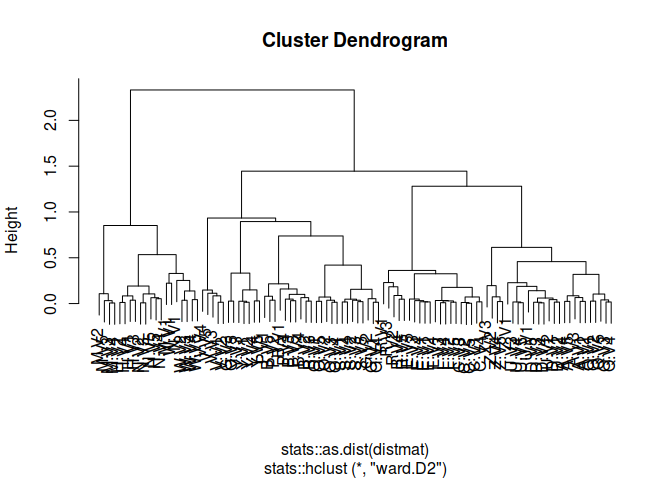
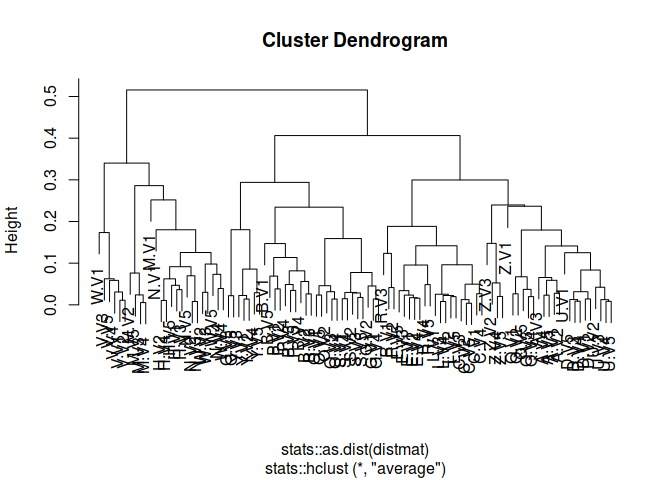
Update README

diff --git a/README.md b/README.md
@@ -8,9 +8,12 @@ Time series clustering with a wide variety of strategies and a series of optimiz
 
 Many of the algorithms implemented in this package are specifically tailored to DTW, hence its name. However, the main clustering function is flexible so that one can test many different clustering approaches, using either the time series directly, or by applying suitable transformations and then clustering in the resulting space. Other implementations included in the package provide some alternatives to DTW.
 
-DTW is a dynamic programming algorithm that tries to find the optimum warping path between two series. Over the years, several variations have appeared in order to make the procedure faster or more efficient. Please refer to the included references for more information, especially Giorgino (2009), which is a good practical introduction.
+For more information:
 
-Most optimizations require equal dimensionality, which means time series should have equal length. DTW itself does not require this, but it is relatively expensive to compute. Other distance definitions may be used, or series could be reinterpolated to a matching length (Ratanamahatana and Keogh, 2004).
+-   [Vignette with theory](https://cran.r-project.org/web/packages/dtwclust/vignettes/dtwclust.pdf) (with examples in the appendices)
+-   [Timing experiments](https://cran.r-project.org/web/packages/dtwclust/vignettes/timing-experiments.html)
+-   [Functions' documentation](https://cran.r-project.org/web/packages/dtwclust/dtwclust.pdf)
+-   [CRAN's time series view](https://cran.r-project.org/web/views/TimeSeries.html)
 
 Implementations
 ---------------
@@ -22,7 +25,8 @@ Implementations
     -   TADPole clustering
 -   DTW Barycenter Averaging
 -   Keogh's and Lemire's DTW lower bounds
--   Global alignment kernel distance
+-   Global alignment kernel (GAK) distance
+-   Some multivariate support (GAK and DTW)
 -   Parallelization for most functions
 
 Installation
@@ -34,47 +38,41 @@ If you want to test the latest version from github, first install the [prerequis
 
 If you're wondering about which version to install, take a look at the [CHANGELOG](CHANGELOG.md) file, I try to keep it updated. Check the [Unix](https://travis-ci.org/asardaes/dtwclust) and [Windows](https://ci.appveyor.com/project/asardaes/dtwclust) continuous integration builds to make sure everything is working, but do note that they tend to fail for reasons unrelated to the package's functionality.
 
-Dependencies
-------------
+License
+-------
 
--   Partitional procedures are inspired by the `flexclust` package.
--   Hierarchical procedures use the native `hclust` function by default.
--   Cross-distance matrix calculations make use of the `proxy` package.
--   The core DTW calculations can be done by the `dtw` package or the included `dtw_basic` function.
--   Plotting is done with the `ggplot2` package.
--   Parallel computation depends on the `foreach` package, and also uses `bigmemory` for some optimizations.
--   Cluster evaluation can be done with package `clue` or the `cvi` function.
+GNU General Public License v3.0. See [license](LICENSE) and [copyrights](inst/COPYRIGHTS).
+
+This software package was developed independently of any organization or institution that is or has been associated with the author.
 
 Examples
 --------
 
 ``` r
 # Load series
-data(uciCT)
-
-# Reinterpolate series to equal length and normalize
-series <- reinterpolate(CharTraj, new.length = max(lengths(CharTraj)))
-series <- zscore(series)
+data("uciCT")
 ```
 
 ### Partitional
 
 ``` r
-# Using DTW with help of lower bounds and PAM centroids
-pc.dtwlb <- tsclust(series, k = 20L, 
-                    distance = "dtw_lb", centroid = "pam", 
-                    seed = 3247, trace = TRUE,
-                    control = partitional_control(pam.precompute = FALSE),
-                    args = tsclust_args(dist = list(window.size = 20L)))
-#> Repetition 1 for k = 20
-#> Iteration 1: Changes / Distsum = 100 / 3214.899
-#> Iteration 2: Changes / Distsum = 16 / 2684.667
-#> Iteration 3: Changes / Distsum = 7 / 2617.178
-#> Iteration 4: Changes / Distsum = 0 / 2611.894
+pc <- tsclust(CharTraj, type = "partitional", k = 20L, 
+              distance = "dtw_basic", centroid = "pam", 
+              seed = 3247L, trace = TRUE,
+              args = tsclust_args(dist = list(window.size = 20L)))
 #> 
-#>  Elapsed time is 2.083 seconds.
-
-plot(pc.dtwlb)
+#>  Precomputing distance matrix...
+#> Repetition 1 for k = 20
+#> Iteration 1: Changes / Distsum = 100 / 1665.433
+#> Iteration 2: Changes / Distsum = 19 / 1433.538
+#> Iteration 3: Changes / Distsum = 3 / 1417.581
+#> Iteration 4: Changes / Distsum = 5 / 1360.806
+#> Iteration 5: Changes / Distsum = 2 / 1358.508
+#> Iteration 6: Changes / Distsum = 1 / 1347.486
+#> Iteration 7: Changes / Distsum = 0 / 1346.886
+#> 
+#>  Elapsed time is 1.448 seconds.
+plot(pc)
 ```
 
 ![](README-partitional-1.png)
@@ -82,76 +80,18 @@ plot(pc.dtwlb)
 ### Hierarchical
 
 ``` r
-# Based on shape-based distance
-hc.sbd <- tsclust(CharTraj, type = "hierarchical", k = 20L, 
-                  distance = "sbd", preproc = zscore,
-                  control = hierarchical_control(method = "all"),
-                  trace = TRUE)
+hc <- tsclust(CharTraj, type = "hierarchical", k = 20L, 
+              distance = "sbd", trace = TRUE,
+              control = hierarchical_control(method = "average"))
 #> 
 #> Calculating distance matrix...
 #> Performing hierarchical clustering...
 #> 
-#>  Elapsed time is 0.912 seconds.
-
-# CVIs for HC+SBD
-print(cvis <- sapply(hc.sbd, cvi, b = CharTrajLabels))
-#>                [,1]         [,2]        [,3]         [,4]         [,5]
-#> ARI      0.74050121   0.70344375   0.3428238   0.53026441   0.51258299
-#> RI       0.97838384   0.97232323   0.8965657   0.94848485   0.94202020
-#> J        0.60223048   0.55948553   0.2369598   0.38405797   0.36923077
-#> FM       0.75369221   0.72880580   0.4479318   0.58214036   0.57759590
-#> VI       0.22265488   0.21511035   0.5185772   0.34855573   0.34677938
-#> Sil      0.58811104   0.61748556   0.4094015   0.53663563   0.56617496
-#> SF       0.46587629   0.49555414   0.5949832   0.52241669   0.56892670
-#> CH     709.19997325 709.41247992 475.5431233 632.22264816 645.54710628
-#> DB       0.65336293   0.61402700   0.5085174   0.75527034   0.46973394
-#> DBstar   1.68466461   1.09582372   0.9083771   1.03450267   0.61732267
-#> D        0.13801520   0.22382404   0.1308103   0.17967703   0.23163554
-#> COP      0.06595574   0.06893191   0.1154545   0.08337437   0.08273567
-#>                [,6]        [,7]         [,8]
-#> ARI      0.57464085   0.4182468   0.41964584
-#> RI       0.95414141   0.9216162   0.92202020
-#> J        0.42531646   0.2919708   0.29304029
-#> FM       0.62350648   0.5019646   0.50295569
-#> VI       0.31972827   0.4460655   0.44257501
-#> Sil      0.57151588   0.4741491   0.50197422
-#> SF       0.55858504   0.5752352   0.57919722
-#> CH     667.89703885 531.7178679 553.99994918
-#> DB       0.55074053   0.5464752   0.45639546
-#> DBstar   0.64117537   0.7977064   0.66318416
-#> D        0.16176333   0.1747119   0.19373597
-#> COP      0.07841355   0.1000334   0.09445372
-
-# Best according to variation of information
-plot(hc.sbd[[which.min(cvis["VI", ])]])
+#>  Elapsed time is 0.467 seconds.
+plot(hc)
 ```
 
 ![](README-hierarchical-1.png)
-
-### TADPole
-
-``` r
-pc.tadp <- tsclust(series, type = "tadpole", k = 20L,
-                   trace = TRUE,
-                   control = tadpole_control(dc = 1.5, window.size = 20L))
-#> 
-#>  Entering TADPole...
-#> 
-#> Computing lower and upper bound matrices
-#> Pruning during local density calculation
-#> Pruning during nearest-neighbor distance calculation (phase 1)
-#> Pruning during nearest-neighbor distance calculation (phase 2)
-#> Pruning percentage = 77.8%
-#> Performing cluster assignment
-#> 
-#> TADPole completed for k = 20 & dc = 1.5
-#> 
-#>  Elapsed time is 0.355 seconds.
-
-plot(pc.tadp, clus = 1L:4L)
-```
-
-![](README-tadpole-1.png)
 
 ### Fuzzy
 
@@ -160,12 +100,10 @@ plot(pc.tadp, clus = 1L:4L)
 acf_fun <- function(dat, ...) {
     lapply(dat, function(x) as.numeric(acf(x, lag.max = 50L, plot = FALSE)$acf))
 }
-
 # Autocorrelation-based fuzzy c-means
-fc <- tsclust(series[1L:25L], type = "fuzzy", k = 5L,
+fc <- tsclust(CharTraj[1L:25L], type = "fuzzy", k = 5L,
               preproc = acf_fun, distance = "L2",
-              seed = 123)
-
+              seed = 123L)
 fc
 #> fuzzy clustering with 5 clusters
 #> Using l2 distance
@@ -174,28 +112,24 @@ fc
 #> 
 #> Time required for analysis:
 #>    user  system elapsed 
-#>   0.270   0.000   0.268 
+#>   0.340   0.000   0.338 
 #> 
 #> Head of fuzzy memberships:
 #> 
-#>       cluster_1   cluster_2    cluster_3   cluster_4 cluster_5
-#> A.V1 0.04732844 0.017488756 0.0026332040 0.008325063 0.9242245
-#> A.V2 0.01457851 0.005171223 0.0007800123 0.002521617 0.9769486
-#> A.V3 0.06903925 0.027825249 0.0028701917 0.008586875 0.8916784
-#> A.V4 0.14868285 0.349944504 0.0250225304 0.070086628 0.4062635
-#> A.V5 0.14642795 0.227211257 0.0242881075 0.074452121 0.5276206
-#> B.V1 0.48283724 0.078487945 0.0689223100 0.153092291 0.2166602
+#>       cluster_1   cluster_2  cluster_3  cluster_4 cluster_5
+#> A.V1 0.04550608 0.015278671 0.06017278 0.02854909 0.8504934
+#> A.V2 0.02649930 0.007304681 0.03576385 0.01482575 0.9156064
+#> A.V3 0.03891669 0.007107856 0.03584082 0.01348798 0.9046467
+#> A.V4 0.09316283 0.194096301 0.10463724 0.20029868 0.4078050
+#> A.V5 0.09423895 0.163296699 0.11727901 0.17605511 0.4491302
+#> B.V1 0.39131228 0.034768969 0.35717141 0.07915848 0.1375889
 ```
 
-### (Some) multivariate support
+### *Some* multivariate support
 
 ``` r
-# Multivariate series, provided as a list of matrices
-mv <- CharTrajMV[1L:20L]
-
-# Using GAK distance
-mvc <- tsclust(mv, k = 4L, distance = "gak", seed = 390)
-
+# Multivariate series provided as a list of matrices, using GAK distance
+mvc <- tsclust(CharTrajMV[1L:20L], k = 4L, distance = "gak", seed = 390L)
 # Note how the variables of each series are appended one after the other in the plot
 plot(mvc)
 ```
@@ -209,33 +143,22 @@ require("doParallel")
 #> Loading required package: doParallel
 #> Loading required package: foreach
 #> Loading required package: iterators
-
 # Create and register parallel workers
 cl <- makeCluster(detectCores())
 registerDoParallel(cl)
-
-# Parallel backend detected automatically
-hc <- tsclust(CharTraj, k = 20L,
-              distance = "dtw_basic", centroid = "dba",
-              seed = 9421, trace = TRUE,
-              args = tsclust_args(dist = list(window.size = 20L),
-                                  cent = list(window.size = 20L,
-                                              max.iter = 15L)))
-#>  Elapsed time is 2.91 seconds.
-
-## Returning to sequential calculations
+# Registered parallel backend detected automatically
+plc <- tsclust(CharTraj, k = 20L,
+               distance = "dtw_basic", centroid = "dba",
+               seed = 9421L, trace = TRUE,
+               args = tsclust_args(dist = list(window.size = 20L),
+                                   cent = list(window.size = 20L,
+                                               max.iter = 15L)))
+#>  Elapsed time is 2.905 seconds.
+# Return to sequential calculations
 stopCluster(cl)
 registerDoSEQ()
-
-## Modifying some plot parameters
-plot(hc, labs.arg = list(title = "DBA Centroids", x = "time", y = "series"))
+# Modify some plot parameters
+plot(plc, labs.arg = list(title = "DTW distance + DBA Centroids", x = "time", y = "series"))
 ```
 
 ![](README-parallel-1.png)
-
-License
-=======
-
-GNU General Public License v3.0. See [license](LICENSE) and [copyright](inst/COPYRIGHTS).
-
-This software package was developed independently of any organization or institution that is or has been associated with the author.
